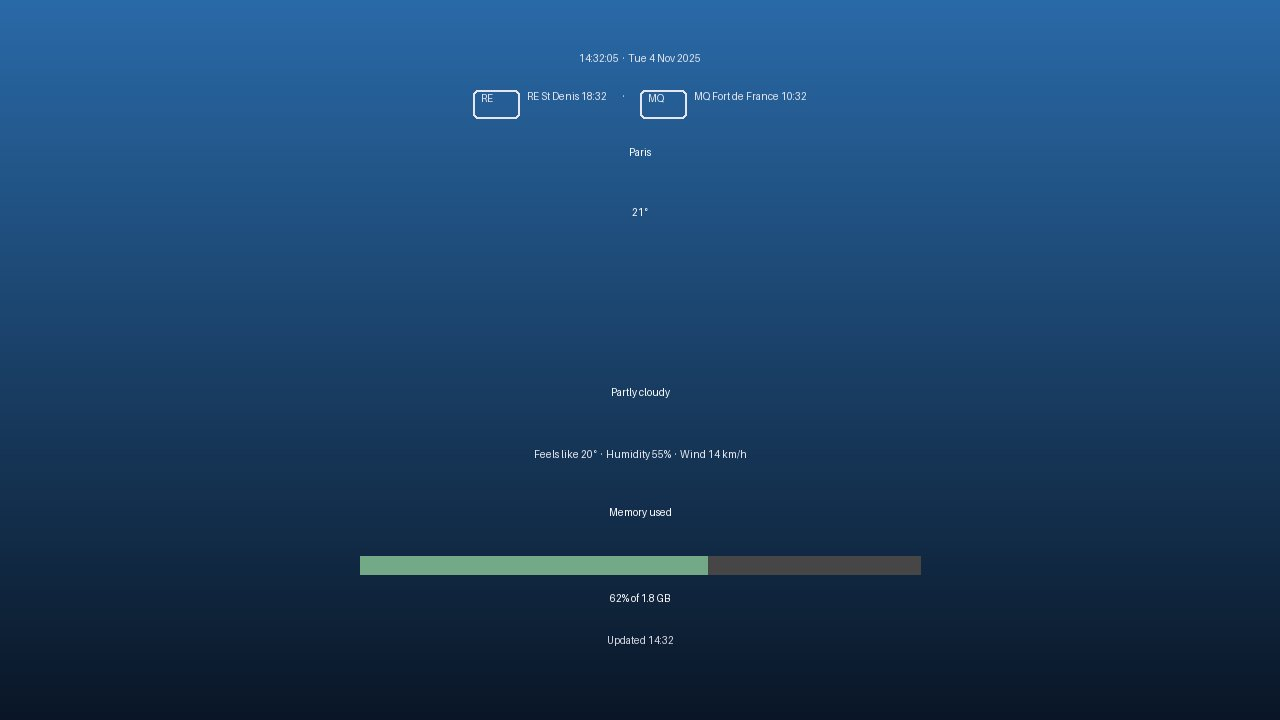
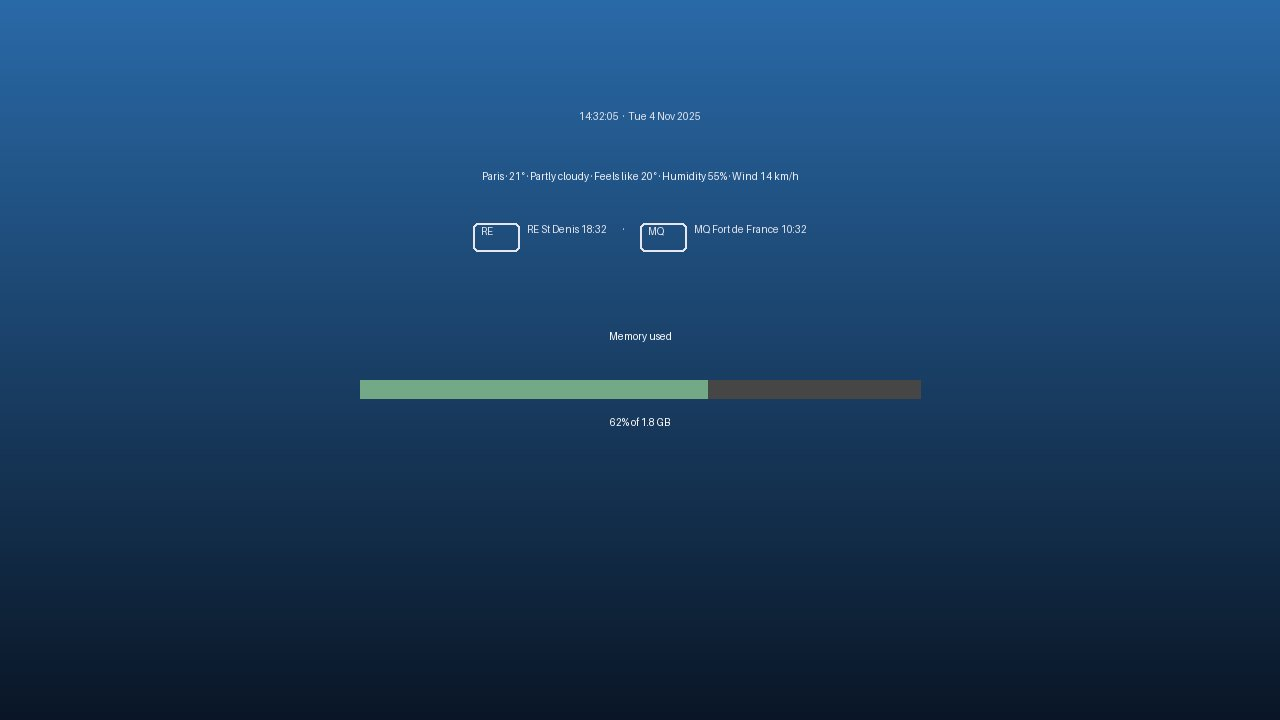
addons: show the weather as one compact line under the local clock
City, temperature, sky, feels-like, humidity and wind on a single line instead of the big temperature block.

diff --git a/addons/weather-ram/app/src/main/java/com/gathin/weatherram/WeatherRamActivity.java b/addons/weather-ram/app/src/main/java/com/gathin/weatherram/WeatherRamActivity.java
@@ -51,11 +51,7 @@ public final class WeatherRamActivity extends Activity {
     private TextView clockView;
     private TextView zoneOneView;
     private TextView zoneTwoView;
-    private TextView placeView;
-    private TextView tempView;
-    private TextView skyView;
-    private TextView detailsView;
-    private TextView updatedView;
+    private TextView weatherView;
     private TextView ramText;
     private View ramFill;
     private boolean resumed;
@@ -78,7 +74,8 @@ public final class WeatherRamActivity extends Activity {
         setContentView(root);
 
         message = text(dp(26), true);
-        clockView = text(dp(24), true);
+        clockView = text(dp(28), true);
+        weatherView = text(dp(22), false);
         LinearLayout zonesRow = new LinearLayout(this);
         zonesRow.setOrientation(LinearLayout.HORIZONTAL);
         zonesRow.setGravity(Gravity.CENTER_HORIZONTAL);
@@ -92,11 +89,6 @@ public final class WeatherRamActivity extends Activity {
         separator.setPadding(dp(16), dp(6), dp(16), dp(6));
         zonesRow.addView(separator);
         zoneTwoView = zone(zonesRow, 0);   // Martinique's flag is the emoji in its name string, not a drawable
-        placeView = text(dp(30), true);
-        tempView = text(dp(96), true);
-        skyView = text(dp(30), true);
-        detailsView = text(dp(22), false);
-        updatedView = text(dp(18), false);
         TextView ramLabel = text(dp(24), true);
         ramLabel.setText(R.string.ram_label);
         ramText = text(dp(24), true);
@@ -121,8 +113,6 @@ public final class WeatherRamActivity extends Activity {
             message.setText(R.string.pick_first);
             message.setVisibility(View.VISIBLE);
             pickCity();
-        } else {
-            placeView.setText(place.getString("name", ""));
         }
         changeCity.requestFocus();
     }
@@ -226,7 +216,7 @@ public final class WeatherRamActivity extends Activity {
                 if (result != null) {
                     show(result);
                     main.postDelayed(tick, Forecast.REFRESH_MS);
-                } else if (tempView.getText().length() == 0) {
+                } else if (weatherView.getText().length() == 0) {
                     message.setText(R.string.offline);
                     message.setVisibility(View.VISIBLE);
                     main.postDelayed(tick, Forecast.RETRY_MS);
@@ -264,18 +254,16 @@ public final class WeatherRamActivity extends Activity {
         });
     }
 
+    /** One compact line under the local clock: city, temperature, sky, then feels-like, humidity and wind. */
     private void show(Forecast.Report r) {
         root.setBackground(Forecast.backdrop(r.code, r.day));
-        placeView.setText(place.getString("name", ""));
-        tempView.setText(Forecast.degrees(r.tempC, fahrenheit) + "°");
-        skyView.setText(Forecast.sky(r.code, r.day));
         StringBuilder details = new StringBuilder();
         details.append(getString(R.string.feels_like, Forecast.degrees(r.feelsC, fahrenheit)));
         details.append(" · ").append(getString(R.string.humidity, r.humidity));
         details.append(" · ").append(fahrenheit ? getString(R.string.wind_mph, Forecast.mph(r.windKmh))
                 : getString(R.string.wind, r.windKmh));
-        detailsView.setText(details);
-        updatedView.setText(getString(R.string.updated, DateFormat.getTimeFormat(this).format(new Date())));
+        weatherView.setText(getString(R.string.weather_line, place.getString("name", ""),
+                Forecast.degrees(r.tempC, fahrenheit), getString(Forecast.sky(r.code, r.day)), details));
         message.setVisibility(View.GONE);
     }
 
@@ -351,8 +339,7 @@ public final class WeatherRamActivity extends Activity {
                             .putLong("lat", Double.doubleToRawLongBits(p.latitude))
                             .putLong("lon", Double.doubleToRawLongBits(p.longitude))
                             .apply();
-                    tempView.setText("");
-                    placeView.setText(p.name);
+                    weatherView.setText("");
                     message.setText(R.string.loading);
                     message.setVisibility(View.VISIBLE);
                     refreshWeather();

diff --git a/addons/weather-ram/README.md b/addons/weather-ram/README.md
@@ -1,9 +1,9 @@
 # Sky & RAM
 
-One full-screen page with the **time and date, the local weather and the RAM in use**: a clock line, the time in
+One full-screen page with the **time and date, the local weather and the RAM in use**: a clock line, one compact
+weather line under it (city, temperature now, conditions, feels-like, humidity, wind), the time in
 St Denis (La Réunion, 🇷🇪) and Fort-de-France (Martinique, 🇲🇶) with their flag emoji in the names (they fall
-back to the letters "RE"/"MQ" on TVs without an emoji font), the city, the temperature now, the conditions and
-feels-like, and a memory bar with its percentage. For the [Clean Your TV](../../README.md)
+back to the letters "RE"/"MQ" on TVs without an emoji font), and a memory bar with its percentage. For the [Clean Your TV](../../README.md)
 launcher it declares a [module card](../../docs/modules.md), so once you answer **Show card** its tile reads
 "Sky & RAM" with a sky-blue glow; on any other Android TV home it is an ordinary app.
 
